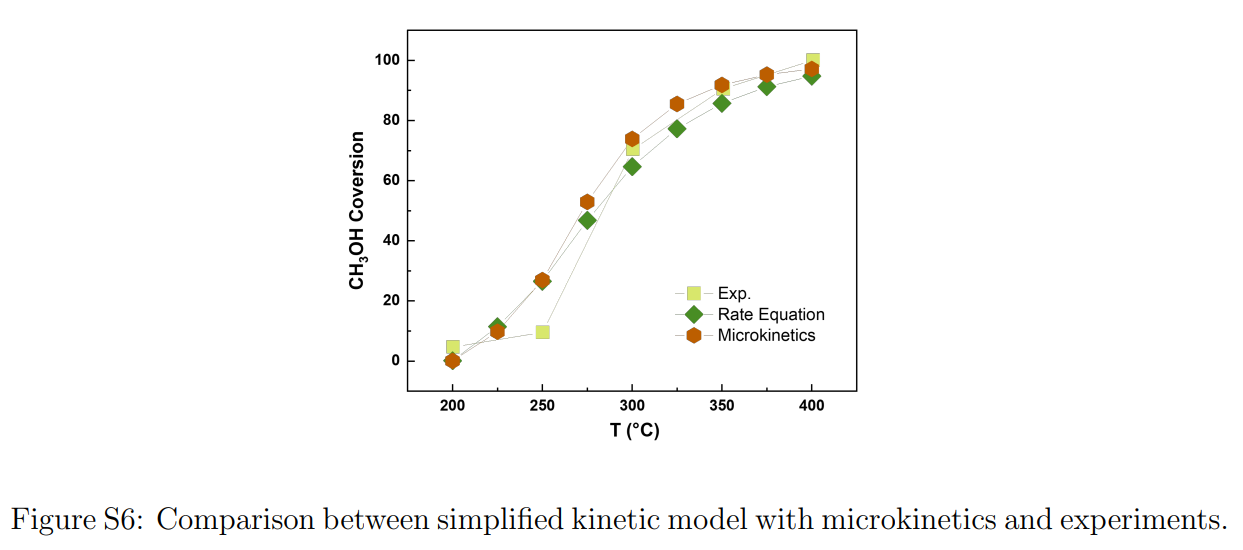
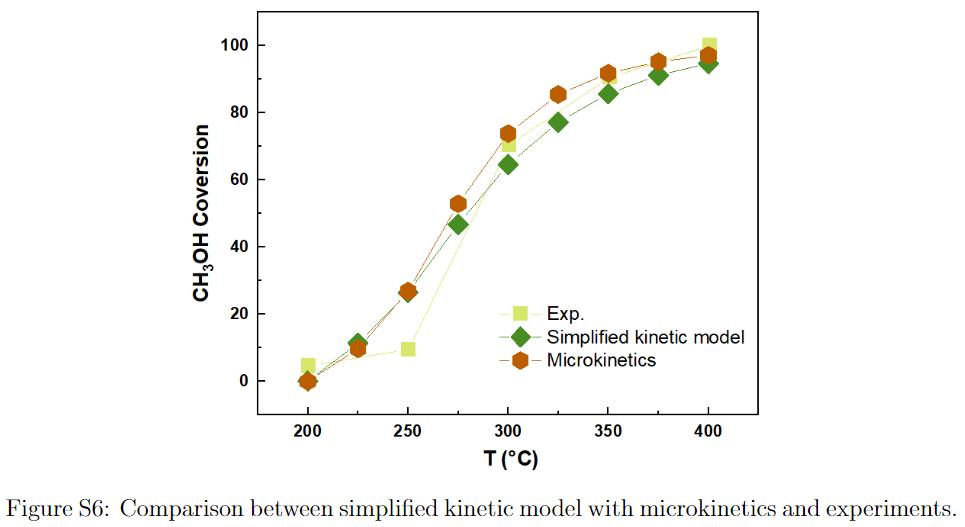
update README,md

diff --git a/DL-accelerated-catalysis-design/3. Adsorption_energies_prediction_by_DL/README.md b/DL-accelerated-catalysis-design/3. Adsorption_energies_prediction_by_DL/README.md
@@ -4,17 +4,19 @@ created: '2022-06-14T09:43:26.939Z'
 modified: '2022-07-18T03:32:09.947Z'
 ---
 
-# Adsorption Energies Prediction by Deep Learning
-## Step 1: Use DFT to prepare database  
-The databases of C and O adsorption energy on CsCl-structure binary alloys are provided in [database_C](./database_C.dat)  and [database_O](./database_O.dat), respectively.  
-  
-## step 2. DNNs training
-[kerasNN.py](./kerasNN.py) is a script for DNN training, whose input data includes the databases of [database_C](./database_C.dat)  and [database_O](./database_O.dat). Parameters of DNNs in this work includes: the number of neurons of the input layer is 21, including 10 features for each of the two elements and the coordination number of the adsorption site; the 10 features of each element are the numbers of s-, p-, d-, and f-electrons, the first and second ionization potentials, the electron affinity, the covalent radius, the main valence state, and the row number of the element in the periodic table; there are eight hidden layers with a width of 20; the activation function of the input and hidden layers is the exponential linear unit (ELU); the output layer is a linear neuron that exports the adsorption energy of C* or O*; the mean absolute error (MAE) was used as the loss function; the optimization algorithm of AdaMax was adopted; the learning rate is 0.004. The ratio of the training and validation data is 3:1. After training, you will get the trained DNN model file for [C](./model_file_C.h5) and [O](./model_file_O.h5), respectively.
-### Training error is:
+# Adsorption Energy Prediction Assisted by Deep Learning
+## Step 1. DFT database of adsorption energies
+The databases of C * and O* adsorption energies on CsCl-type binary alloys are provided as [database_C](./database_C.dat)  and [database_O](./database_O.dat), respectively.  
+
+## Step 2. Training DNN 
+[kerasNN.py](./kerasNN.py) is a script that trains a deep neural network (DNN) using [database_C](./database_C.dat)  and [database_O](./database_O.dat). Parameters of the DNN model in this work includes: the number of neurons of the input layer is 21, including 10 features for each of the two elements and the coordination number of the adsorption site; the 10 features of each element are the numbers of $s$-, $p$-, $d$-, and $f$-electrons, the first and second ionization potentials, the electron affinity, the covalent radius, the main valence state, and the row number of the element in the periodic table; there are eight hidden layers with a width of 20; the activation function of the input and hidden layers is the exponential linear unit (ELU); the output layer is a linear neuron that exports the adsorption energy of C* or O*; the mean absolute error (MAE) is used as the loss function; the optimization algorithm of AdaMax is adopted; the learning rate is 0.004. The ratio of the training and validation data is 3:1. The trained DNN model file is for [model_file_C.h5](./model_file_C.h5) for C and [model_file_O.h5](./model_file_O.h5) for O, respectively.
+
+#### Evolution of MAE during the training
 <img src="./error_in_training.png" width="50%"> </span>
-### Validation results:
+
+#### Validation
 <p> <img src="./validation_of_O.png" width="50%"><img src="./validation_of_C.png" width="50%"> </p>
 
-## Step 3. Use trained model to predict O and C adsorption energy of alloys
-run: python [NNPredict.py](./NNPredict.py) (input files include [properties of alloys](./properties_of_alloys.dat) and [trained DNN model file](model_file_C.h5)). 
+## Step 3. Adsorption energy prediction with trained DNN models 
+Simply run the python script  [NNPredict.py](./NNPredict.py). The required input files include a [dat](./properties_of_alloys.dat) file that describes the properties of alloys and trained [DNN model files](model_file_C.h5). 
 

diff --git a/DL-accelerated-catalysis-design/2. Simplified_kinetics_with_scaling_relationship/README.md b/DL-accelerated-catalysis-design/2. Simplified_kinetics_with_scaling_relationship/README.md
@@ -4,17 +4,17 @@ created: '2022-07-18T02:20:44.542Z'
 modified: '2022-07-18T03:01:14.502Z'
 ---
 
-## Step 1 Rate-determining step and simplified kinetic model
+## Step 1. Simplified kinetic model
 
-The typical reaction path of steam reforming of methanol at experimental conditions is,
+The reaction network of steam reforming of methanol (SRM) used for the microkinetic modeling is illustrated as below:
 ![](./reaction_path.jpg)
 
-Based on the microkinetic model, we perform sensitivity analysis by computing the partial derivatives of methanol conversion rate with respect to the rate constant of individual elementary reation, as follows (greater than 0.01),
+The values in blue are rate constants. Based on the microkinetic model, we performed sensitivity analysis by computing the partial derivatives of the methanol conversion rate with respect to the rate constant of individual elementary reaction, and identified two rate determining steps (RDSs) that have partial derivatives greater than 0.01, as shown below. 
 ![](./sensitivity.jpg)
-Two rate determining steps are found in steam reforming of methanol, then we constructed a simplified kinetic model, in which just two rate determing steps are considered as non-equlibrium reactions, and the python code of this model is supplied in the [simplified kinetic model file](./MSR_CSTR.py), which is well consisted with the results of microkinetic models.
+We then constructed a simplified kinetic model in which only RDSs are considered as non-equilibrium reactions. The python code of the simplified kinetic model is  [MSR_CSTR.py](./MSR_CSTR.py), the results of which agree well with those obtained with the microkinetic modeling based on the full reaction network.
 ![](./kinetics.jpg)
 
-## Step 2 Kinetics with linear scaling relationship
-The scaling relationship is introduced to the simplified kinetics, including $\Delta E_{a,\rm CH_3OH} = 0.17E_{\rm ad, C*} + 0.36E_{\rm ad, O*} -23.004$ (eV), $\Delta E_{a,+}^{\rm WGS} = 0.25E_{\rm ad, C*} + 0.825E_{\rm ad, O*}+6.114$ (eV), $\Delta E_{a,-}^{\rm WGS} = 0.25E_{\rm ad, C*} + 0.825E_{\rm ad, O*}+6.985$ (eV).
-we substitued the activation and adsorption energies in the simplified kinetics by the linear scaling relationship. it can be used to generate a volcano plot, as supplied in [volcano_plot.py](./volcano_plot.py).
+## Step 2. Linear scaling relationships in SRM
+The main inputs for the simplified kinetic model are the activation energies of RDSs. Following scaling relationships are used $\Delta E_{a,\rm CH_3OH} = 0.17E_{\rm ad, C*} + 0.36E_{\rm ad, O*} -23.004$ (eV), $\Delta E_{a,+}^{\rm WGS} = 0.25E_{\rm ad, C*} + 0.825E_{\rm ad, O*}+6.114$ (eV), $\Delta E_{a,-}^{\rm WGS} = 0.25E_{\rm ad, C*} + 0.825E_{\rm ad, O*}+6.985$ (eV).
+Combining the adsorption energies of C* and O* predicted with a deep neural network (see details in [Adsorption_energies_prediction_by_DL](../3. Adsorption_energies_prediction_by_DL) , we can construct a volcano plot using [volcano_plot.py](./volcano_plot.py) for thousands of metallic alloys. 
 

diff --git a/DL-accelerated-catalysis-design/4. 3d_volcano_plot/README.md b/DL-accelerated-catalysis-design/4. 3d_volcano_plot/README.md
@@ -1,9 +1,3 @@
----
-tags: [Import-1cc3]
-title: 3-dimensional Volcano Plot
-created: '2022-06-29T07:05:16.151Z'
-modified: '2022-07-18T06:20:49.280Z'
----
-
 # 3-dimensional Volcano Plot
-The conversion of methanol at 474 K under EEFs for different catalysts generated by [3d_data_generation_T473K.py](./3d_data_generation_T473K.py), whose output is [newn_T473K_interp.csv](./newn_T473K_interp.csv). [3D volcanoplot.nb](./3D_volcanoplot.nb) is used to generate the 3D volcano plot from [newn_T473K_interp.csv](./newn_T473K_interp.csv).
+The conversion rates of methanol at 474 K under EEFs for different metallic alloys can be estimated with the python script 3d_data_generation_T473K.py, whose output is newn_T473K_interp.csv. We offer a python notebook 3D volcanoplot.nb to generate the 3D volcano plot from newn_T473K_interp.csv.
+

diff --git a/DL-accelerated-catalysis-design/README.md b/DL-accelerated-catalysis-design/README.md
@@ -1,13 +1,7 @@
----
-title: How to construct a 3D volcano plot of electrostatic catalysis?
-created: '2022-06-29T07:31:34.881Z'
-modified: '2022-07-18T06:37:50.672Z'
----
-
 # How to construct a 3D volcano plot of electrostatic catalysis?
 Here, we give a tutorial for construction of a 3D volcano plot of steam reforming of methanol (SRM) under external electric fields (EEFs).
 
-This multiscale approach include 4 steps:
+This multiscale approach includes 4 steps:
 1. Construct the microkinetics of the SRM process under EEFs;
 2. Simplify the microkinetics and derive a simplified kinetic model of SRM with scaling relationships.
 3. Predict the O and C adsorption energies assisted by deep learning.
